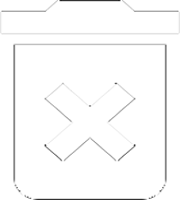
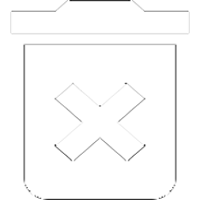
исправлен размер кнопки удаления программы. Исправлен WS на странице выбора канала для ручного включения. Нельзя повторно нажать кнопку скачивания данных. Исправлено, что данные не выводились на график

diff --git a/mysite/templates/controller.html b/mysite/templates/controller.html
@@ -25,6 +25,7 @@
 	var controller_time = new Date(load_time.getFullYear(), load_time.getMonth(), load_time.getDate(), 0, 0, 0);
 	var paused = false;
 	var hidden_channel = "{{ hidden_channel }}";
+	var blocked = false;
 
 	var time_sync_canceled = false;
 
@@ -207,12 +208,21 @@
 	var pattern = "{% url 'channel' mqtt_user '-to_replace-' %}"
 	function redirect_to_channel(num)
 	{
+		if (blocked)
+		{
+		    return;
+		}
+
 		let channel_num = current_page * 10 + num;
 		window.location.replace(pattern.replace("-to_replace-", channel_num.toString()));
 	}
 
 	function block_while_downloading()
 	{
+	    if (blocked)
+		{
+		    return;
+		}
 		if (window.confirm("Приложение будет недоступно до окончания скачивания. Продолжить?"))
 		{
 			blocked = true;
@@ -459,7 +469,7 @@
 							</div>
 
 							<div class="status__column">
-								<div class="titlew">And: site</div>
+								<div class="titlew">And: Web</div>
 							</div>
 
 							<div class="status__column">

diff --git a/mysite/templates/includes/channels_selector_script.html b/mysite/templates/includes/channels_selector_script.html
@@ -61,12 +61,15 @@
                         document.getElementById('chn' + i.toString() + "_div").className = className;
 
                         meandrsClassName = "meandroff";
-                        if (meandrs & channel_number <= channels_meandrs.length & channels_meandrs[channel_number-1])
+                        if (channel_number <= channels_meandrs.length & channels_meandrs[channel_number-1])
                         {
                             meandrsClassName = "meandron";
                         }
 
-                        document.getElementById('chn' + i.toString() + "_meandr").className = meandrsClassName;
+                        if (meandrs)
+                        {
+                            document.getElementById('chn' + i.toString() + "_meandr").className = meandrsClassName;
+                        }
 				    }
                 }
 

diff --git a/mysite/templates/manual_activation_selector.html b/mysite/templates/manual_activation_selector.html
@@ -27,14 +27,14 @@
 	}
 
 	const socket = new WebSocket(
-            'ws://'
+            '{{ ws }}://'
             + window.location.host
             + '/ws/controller'
         );
 
 	socket.onopen = function(e)
 	{
-	  	socket.send(JSON.stringify({"mqtt_user": MQTT_USER, "command": "get_properties"}));
+	  	socket.send(JSON.stringify({"mqtt_user": mqtt_user, "command": "get_properties"}));
 	};
 
     socket.onmessage = function(event)

diff --git a/mysite/templates/gantt.html b/mysite/templates/gantt.html
@@ -64,7 +64,7 @@ tr {
 					<div class="mhead">
 
 						<div class="mhead__title">
-							<b>График</b>
+							<b>План программ</b>
 						</div>
 
 						<div class="mhead__manual">

diff --git a/mysite/main/views.py b/mysite/main/views.py
@@ -522,9 +522,8 @@ def gantt(request, mqtt_user: str):
 
         return out
 
-    programs = Program.objects.filter(channel__controller__mqtt_user=mqtt_user)
-    channels = Channel.objects.filter(controller__mqtt_user=mqtt_user)
     controller = Controller.objects.get(mqtt_user=mqtt_user)
+    channels = controller.channels
 
     if controller.version < 200:
         channels = channels[:10]
